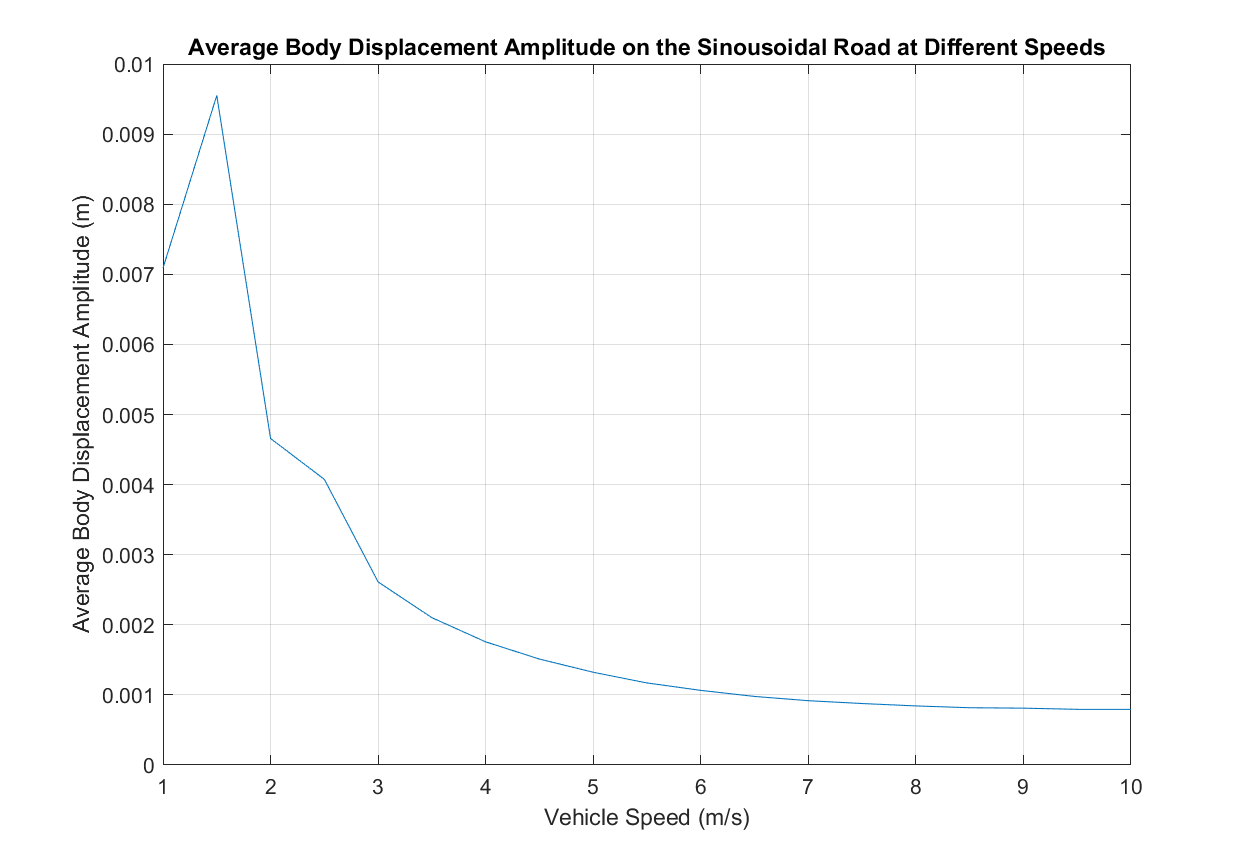
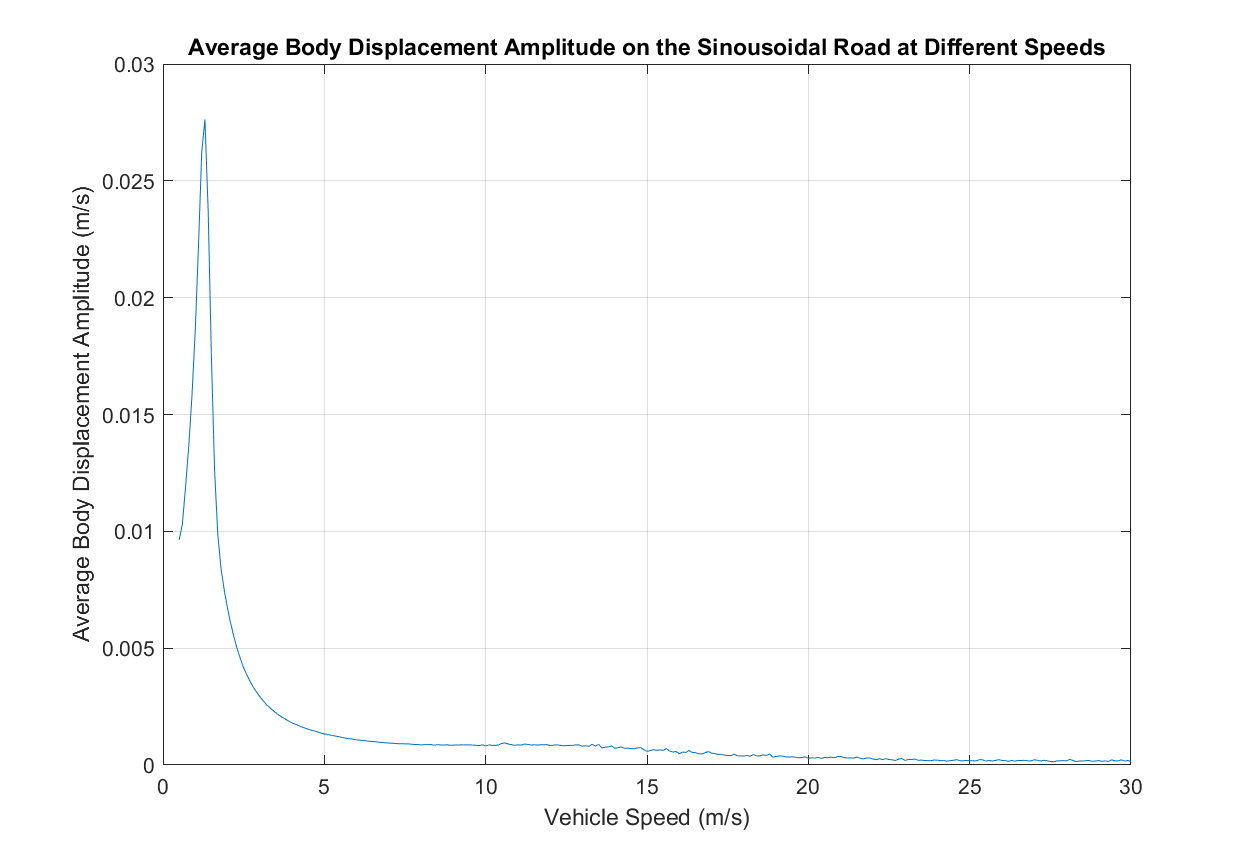
Move body velocity calcs and make velocity sin graphs

diff --git a/simscripts/sinRoads.m b/simscripts/sinRoads.m
@@ -1,9 +1,12 @@
 % Run the sin case at different speeds
 % Set speeds and profile type.
-speeds=1:0.5:10;
+speeds=0.5:0.1:30;
 set_param('halfmodel/Forcing Selector/Road Profile Control Signal','Value','2');
 
 amps=zeros(1,numel(speeds));
+velAmps=amps;
+frontVelAmps=amps;
+rearVelAmps=amps;
 for sp=1:numel(speeds)
     disp(['Running Sim @ ' num2str(speeds(sp)) ' m/s']);
     v_speed=speeds(sp);
@@ -11,6 +14,9 @@ for sp=1:numel(speeds)
     simStatus=get_param('halfmodel','SimulationStatus');
     waitfor(simStatus,'Value','stopped');
     amps(sp)=sinStats(Displacements.Body_Displacement,5);
+    velAmps(sp)=sinStats(Displacements.Body_Velocity,5);
+    frontVelAmps(sp)=sinStats(Displacements.Front_Combined_Velocity,5);
+    rearVelAmps(sp)=sinStats(Displacements.Rear_Combined_Velocity,5);
 end
 disp('Sims Complete');
 
@@ -18,8 +24,22 @@ f21=figure(21);
 hold off;
 plot(speeds,amps);
 xlabel('Vehicle Speed (m/s)');
-ylabel('Average Body Displacement Amplitude (m)');
+ylabel('Average Body Displacement Amplitude (m/s)');
 title('Average Body Displacement Amplitude on the Sinousoidal Road at Different Speeds');
 grid on;
 set(f21,'Position',[150 150 800 550]);
 saveas(f21,'graphs/sin/averageAmps.png');
+
+f22=figure(22);
+hold off;
+plot(speeds,velAmps);
+hold on;
+plot(speeds,frontVelAmps);
+plot(speeds,rearVelAmps);
+xlabel('Vehicle Speed (m/s)');
+ylabel('Average Body Velocity Amplitude (m)');
+title('Average Body Velocity Amplitude on the Sinousoidal Road at Different Speeds');
+legend('CoM','Front Point','Rear Point');
+grid on;
+set(f22,'Position',[150 150 800 550]);
+saveas(f22,'graphs/sin/averageVelAmps.png');

diff --git a/simscripts/sinStats.m b/simscripts/sinStats.m
@@ -13,7 +13,7 @@ BDdata=BDdata(pps*cutInTime:end);
 timeVector=timeVector(pps*cutInTime:end);
 
 % Split into time strips
-stripSteps=0.2*pps;
+stripSteps=1*pps;
 stripCount=fix(numel(BDdata)/stripSteps);
 BDdataShort=BDdata(1:stripCount*stripSteps);
 BDdataMatrix=reshape(BDdataShort,[stripSteps,stripCount]);
